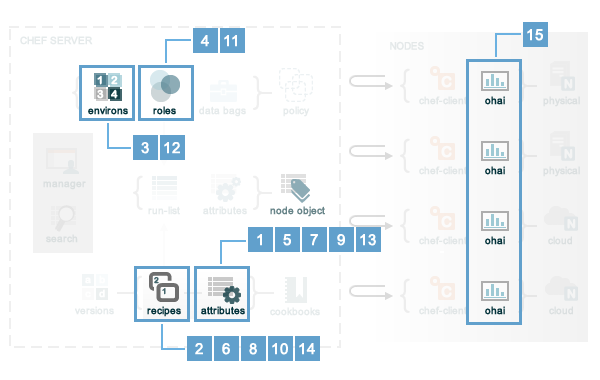
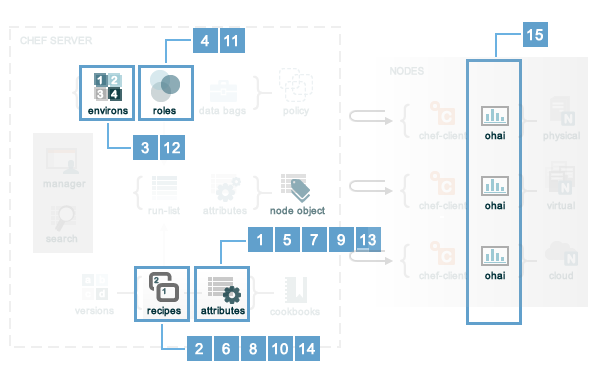
update diagrams for oec

diff --git a/includes_pushy/includes_pushy_component_diagram.rst b/includes_pushy/includes_pushy_component_diagram.rst
@@ -4,7 +4,7 @@
 
 The following diagram shows the relationship of |pushy| components with the rest of |chef server oec|:
 
-.. image:: ../../images/overview_pushy_quick.png
+.. image:: ../../images/overview_pushy.png
 
 
 
